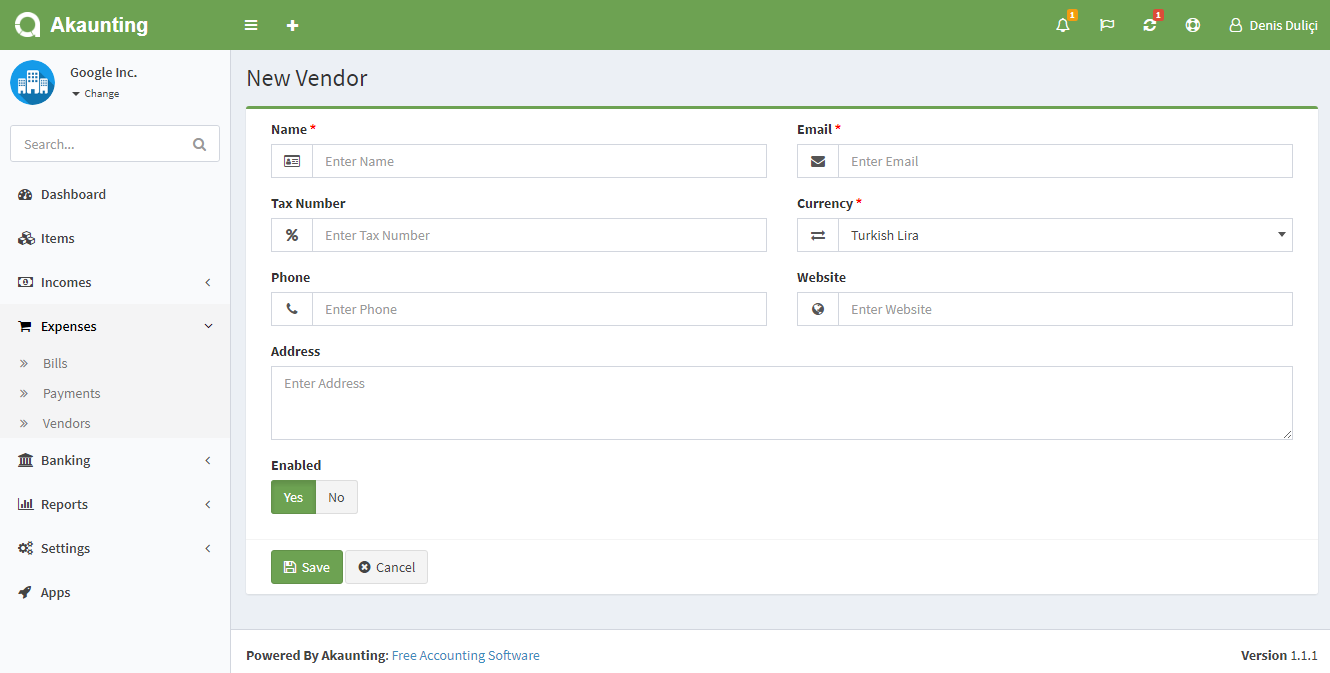
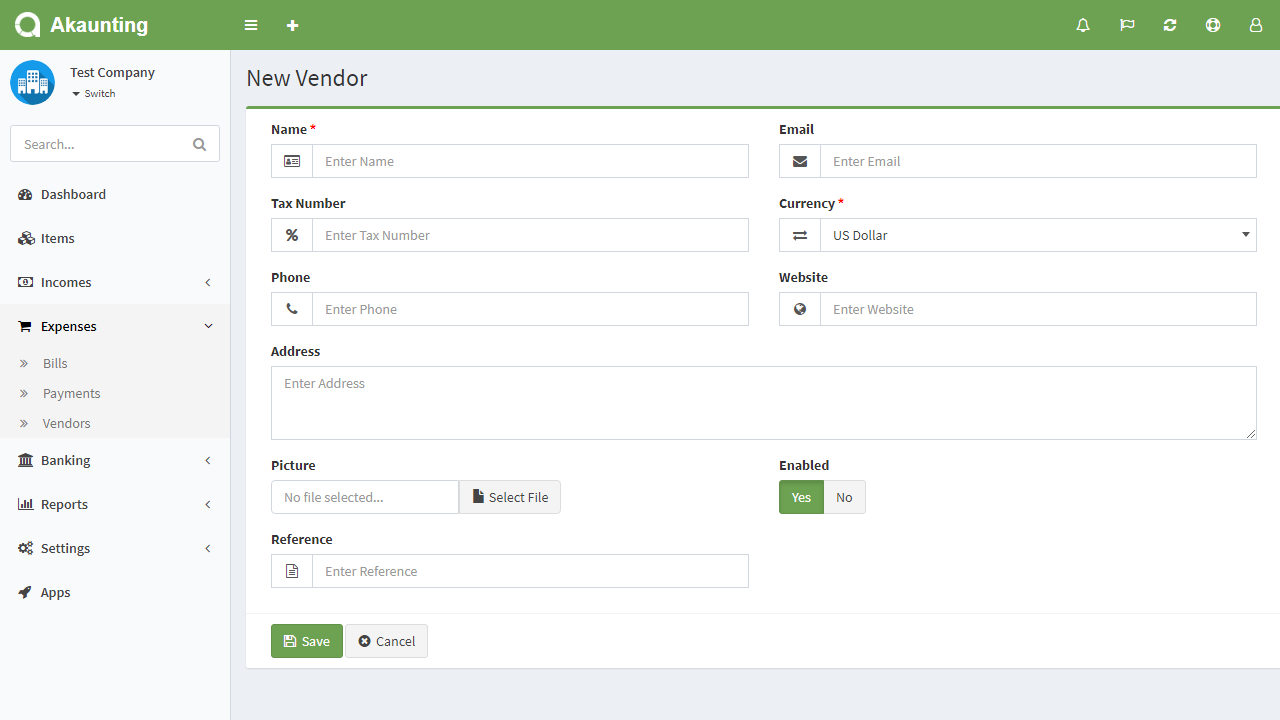
incomes and expenses updated

diff --git a/en/user-manual/incomes/invoices.md b/en/user-manual/incomes/invoices.md
@@ -30,7 +30,7 @@ The following fields are displayed as blank to be filled, some are required and 
 	- **Name**: The name of item. It will populate records from *Items* page after you start typing their name. It can also be a custom item.
 	- **Quantity**: Default is 1. You can enter decimal quantity (1.7)
 	- **Price**: The sale price of item. It will bring it automatically but you have the opportunity to change it if you want.
-	- **Tax**: The list of applicable Tax Rates. You can add new taxes or change the rate of tax from "*Settings > Tax Rates* page".
+	- **Tax**: The list of applicable Tax Rates. You can select multiple taxes. See the *Settings > Tax Rates* documentation for more details.
 	- **Total**: It will calculate automatically the total price of item according the quantity and tax. It is not an editable field.
 	- **Subtotal**: The total prices of items without taxes.
 	- **Tax**: The total price of taxes.
@@ -47,6 +47,10 @@ The following fields are displayed as blank to be filled, some are required and 
 The following image shows the details page of an invoice:
 
 ![invoice show](_images/invoices_show.png)
+
+### Share
+
+The share button gives you a unique invoice link so you could send it to your customer and allow them to pay the invoice without having to login.
 
 ### Actions
 

diff --git a/en/user-manual/expenses/bills.md b/en/user-manual/expenses/bills.md
@@ -30,7 +30,7 @@ The following fields are displayed as blank to be filled, some are required and 
 	- **Name**: The name of item. It will populate records from *Items* page after you start typing their name. It can also be a custom item.
 	- **Quantity**: Default is 1. You can enter decimal quantity (1.7)
 	- **Price**: The purchase price of item. It will bring it automatically but you have the opportunity to change it if you want.
-	- **Tax**: The list of applicable Tax Rates. You can add new taxes or change the rate of tax from "*Settings > Tax Rates* page".
+	- **Tax**: The list of applicable Tax Rates. You can select multiple taxes. See the *Settings > Tax Rates* documentation for more details.
 	- **Total**: It will calculate automatically the total price of item according the quantity and tax. It is not an editable field.
 	- **Subtotal**: The total prices of items without taxes.
 	- **Tax**: The total price of taxes.

diff --git a/en/user-manual/incomes/customers.md b/en/user-manual/incomes/customers.md
@@ -8,6 +8,7 @@ The following fields are displayed:
 - **Name**: Customer's full name.
 - **Email**: Customer's email address.
 - **Phone**: Customer's phone number.
+- **Unpaid**: The amount that customer has not paid yet.
 - **Status**: Status of the customer.
 - **Actions**: You can use this button to edit, duplicate, and delete the customer.
 
@@ -24,6 +25,7 @@ The following fields are displayed as blank to be filled, some are required and 
 - **Address**: Customer's address.
 - **Currency**: Default currency to be used for the customer.
 - **Enabled**: Status of the customer.
+- **Reference**: Any possible reference.
 - **Allow Login**: Selecting this option will ask you for password. You customer may access the Client Portal using their email and password and so on see/pay the invoices assigned to them.
 
 ![customers form](_images/customers_form.png)

diff --git a/en/user-manual/expenses/vendors.md b/en/user-manual/expenses/vendors.md
@@ -8,6 +8,7 @@ The following details are displayed:
 - **Name**: Vendor's name.
 - **Email**: Vendor's email adress.
 - **Phone**: Vendor's phone number.
+- **Unpaid**: The amount that vendor is waiting to be paid for.
 - **Status**: Status of the vendor.
 - **Actions**: You can use this button to edit, duplicate, and delete the vendor.
 
@@ -24,5 +25,6 @@ The following fields are displayed as blank to be filled, some are required and 
 - **Address**: Vendor's address
 - **Currency**: Default currency to be used for the vendor
 - **Enabled**: Status of the vendor.
+- **Reference**: Any possible reference.
 
 ![vendor form](_images/vendors_form.png)
